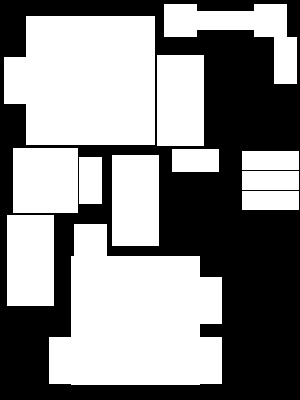
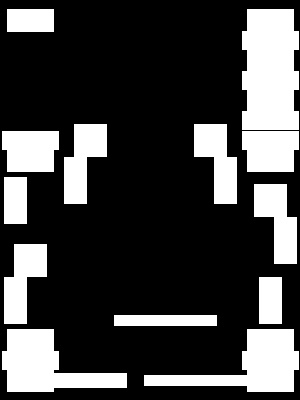
refining the code

diff --git a/smmoth_region_coordinates.py b/smmoth_region_coordinates.py
@@ -4,6 +4,7 @@ import os
 import numpy as np
 from model.distrib_model import LayoutsDistribModel
 from utils.anchor_utils import get_candidates_region, get_text_region
+import pandas as pd
 
 scale_val = 20
 channel_deep = 16
@@ -11,7 +12,9 @@ position_deep = 8
 STD_WIDTH, STD_HEIGHT = 300, 400
 channel_deep = 16
 MIN_VALUE = -999999
-MAX_BBOX_NUM = 32
+MAX_BBOX_NUM = 2
+
+
 
 distrib_model = LayoutsDistribModel(
     dim_feedforward=channel_deep,
@@ -33,7 +36,7 @@ def softmax_1d_weight(x, weight=1):
 def smooth_region_dectection(img):
     (success, saliency_map) = saliency.computeSaliency(img)
     scaled_saliency_map = cv2.resize(saliency_map, (STD_WIDTH, STD_HEIGHT))
-    smooth_regions, smooth_scores = get_candidates_region(scaled_saliency_map, threshold=0.5)
+    smooth_regions, smooth_scores = get_candidates_region(scaled_saliency_map, threshold=2)
     regions = np.array(
         [[[obj[0], obj[1]],
           [obj[2], obj[1]],
@@ -67,23 +70,41 @@ def get_bbox_mask(bbox):
 
 
 if __name__ == "__main__":
-    img_path = r"D:\Personal\diksha\AS\Text2Poster-ICASSP-22\bk_image_folder\img-1.png"
+    img_path = r"D:\Personal\diksha\AS\Text2Poster-ICASSP-22\bk_image_folder\quote.png"
     img = cv2.imread(img_path)
     width, height = img.shape[1], img.shape[0]
     img_size = (width, height)
 
+
+    
     smooth_region_mask, regions, saliency_map = smooth_region_dectection(img)
     bbox_distrib_map = get_distrib_mask(smooth_region_mask)
 
     cv2.imwrite("./display/candidate_regions.jpg", smooth_region_mask[0] * 255)
     cv2.imwrite("./display/layout_distribution.jpg", bbox_distrib_map * 255)
 
-    # Save smooth region coordinates to a text file
-    coordinates_file = open("./display/smooth_region_coordinates.txt", "w")
-    for region in regions:
-        for point in region:
-            coordinates_file.write(f"{point[0]}, {point[1]}\n")
-    coordinates_file.close()
+    
+# Prepare the data for DataFrame
+    data = {'Region': [], 'Coordinates': [], 'Area': []}
+
+# Calculate the area and coordinates for each region
+    for i, region in enumerate(regions):
+        # Calculate the bounding rectangle coordinates
+        x, y, w, h = cv2.boundingRect(region)
+
+        # Calculate the area of the region
+        area = cv2.contourArea(region)
+
+        # Append the data to the dictionary
+        data['Region'].append(i+1)
+        data['Coordinates'].append(f"({x}, {y}, {x+w}, {y+h})")
+        data['Area'].append(area)
+
+    # Create the DataFrame
+    df = pd.DataFrame(data)
+
+    # Export the DataFrame to an Excel file
+    df.to_excel('./display/smooth_region_coordinates.xlsx', index=False)
 
     # Show (salicy_map, smooth_region) in a figure.
     saliency_map_with_smooth = np.zeros((height, width, 3))
@@ -91,7 +112,7 @@ if __name__ == "__main__":
     smooth_region_mask = cv2.resize(smooth_region_mask[0], (width, height))
     saliency_map_with_smooth[:, :, 2] = smooth_region_mask / smooth_region_mask.max()
     saliency_map_with_smooth = cv2.resize(saliency_map_with_smooth, (width, height))
-    cv2.imwrite("./display/saliency_map_with-smooth.jpg", saliency_map_with_smooth * 255)
+    cv2.imwrite("./display/saliency_map_with-smooth-pw-13.jpg", saliency_map_with_smooth * 255)
 
     # Show (salicy_map, predicted_layout_distribution) in a figure.
     saliency_map_with_distrib = np.zeros((height, width, 3))
